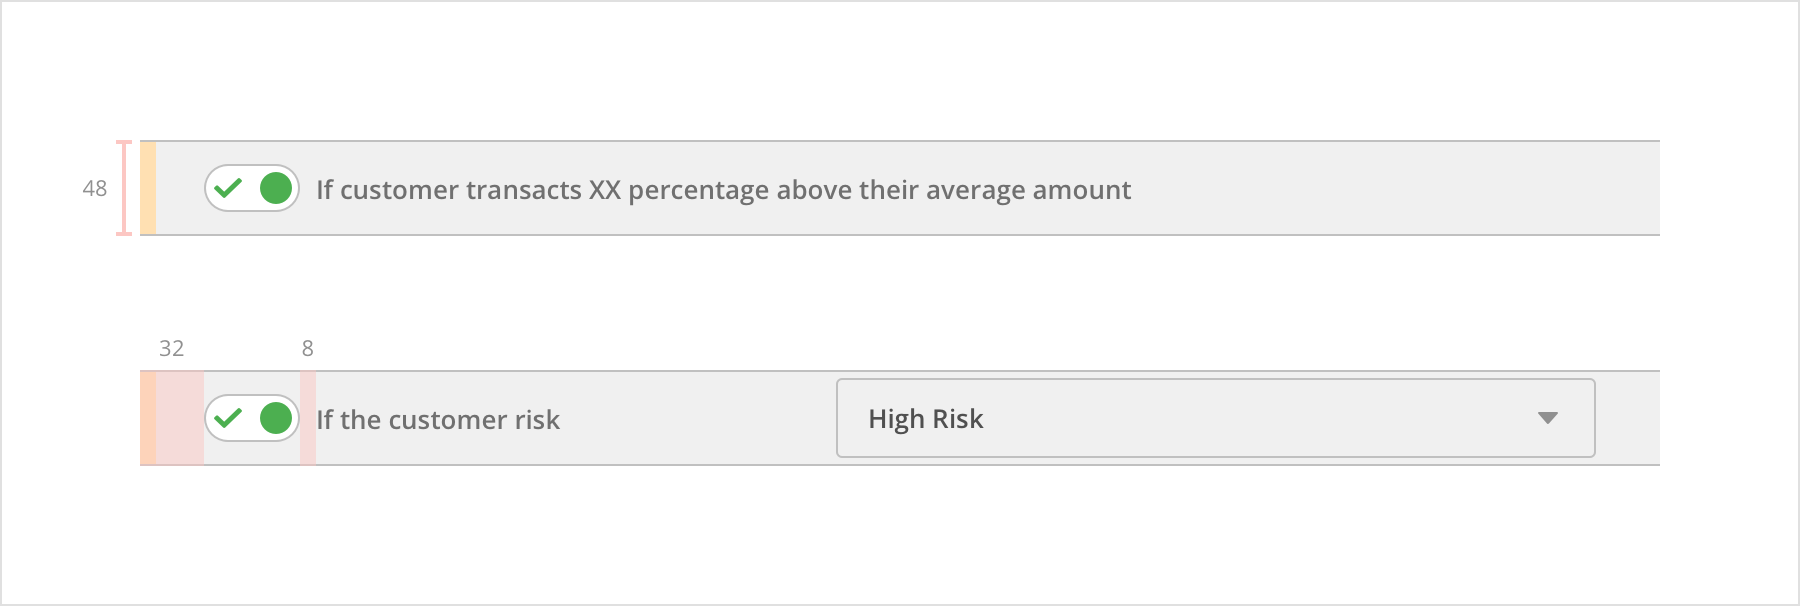
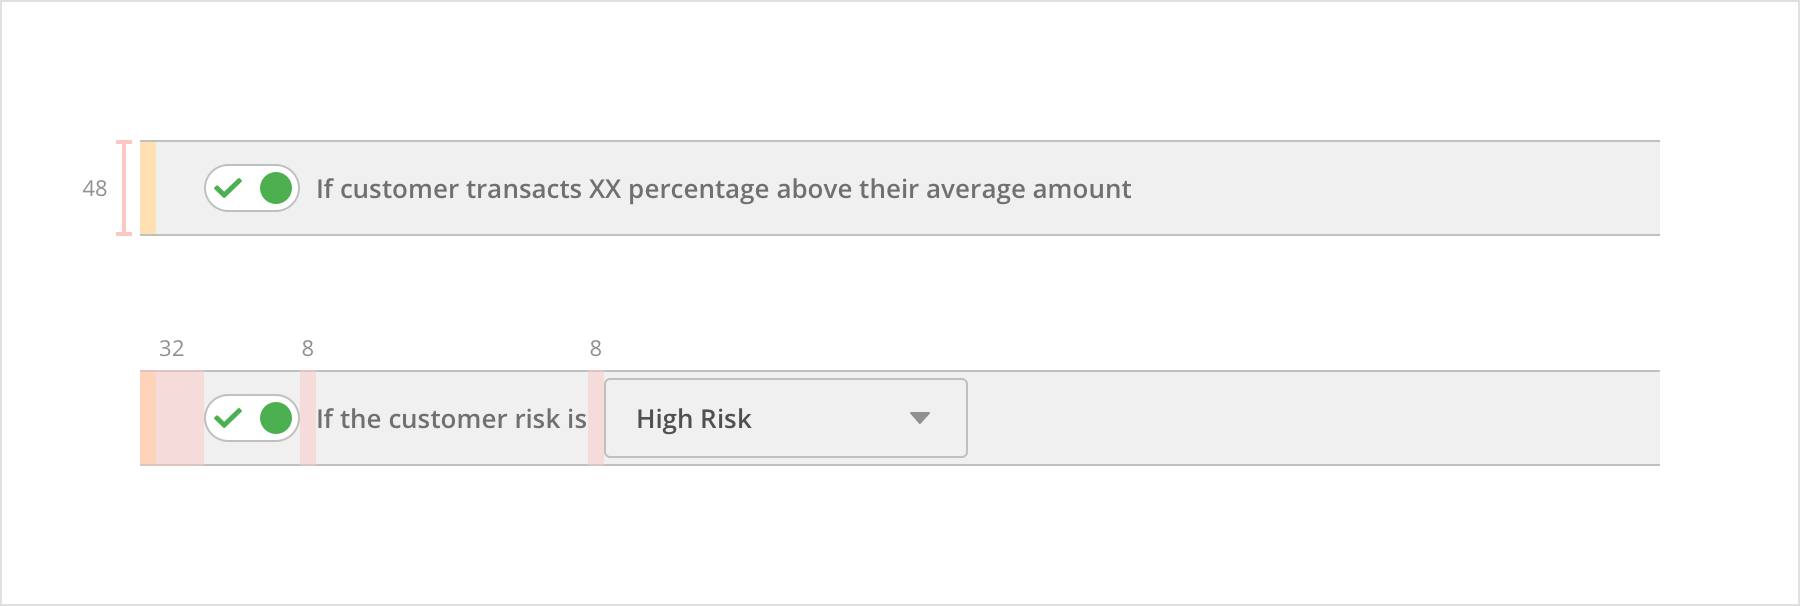
Updates headers.md
Auto commit by GitBook Editor

diff --git a/headers.md b/headers.md
@@ -218,28 +218,22 @@ border-left: 8px solid $O200;
 
 ```
 /* Header #3 / column */
-height: 48px;
-padding-left: 32px;
-background-color: $S200;
-border-top: 1px solid $S500;
-border-bottom: 1px solid $S500;
-border-left: 8px solid $O200;
+/* Use exactly the same CSS properties as Header #3 / full width */
 ```
 
 ---
 
 ##### Toggle
 
+* Use [toggles](/atoms/toggles.md) when needed to activate or disable the section below \(example: 'Transaction Monitoring Settings / Transactions'\)
+* There is an 8px margin between toggles and headlines.
+* Use 'M' size for [Dropdowns.](/atoms/dropdowns.md)
+
 ![](/assets/organisms/headers-header-3-toggle.png)
 
 ```
 /* Header #3 / toggle */
-height: 48px;
-padding-left: 32px;
-background-color: $S200;
-border-top: 1px solid $S500;
-border-bottom: 1px solid $S500;
-border-left: 8px solid $O200;
+/* Use exactly the same CSS properties as Header #3 / full width */
 ```
 
 ##### Atoms
